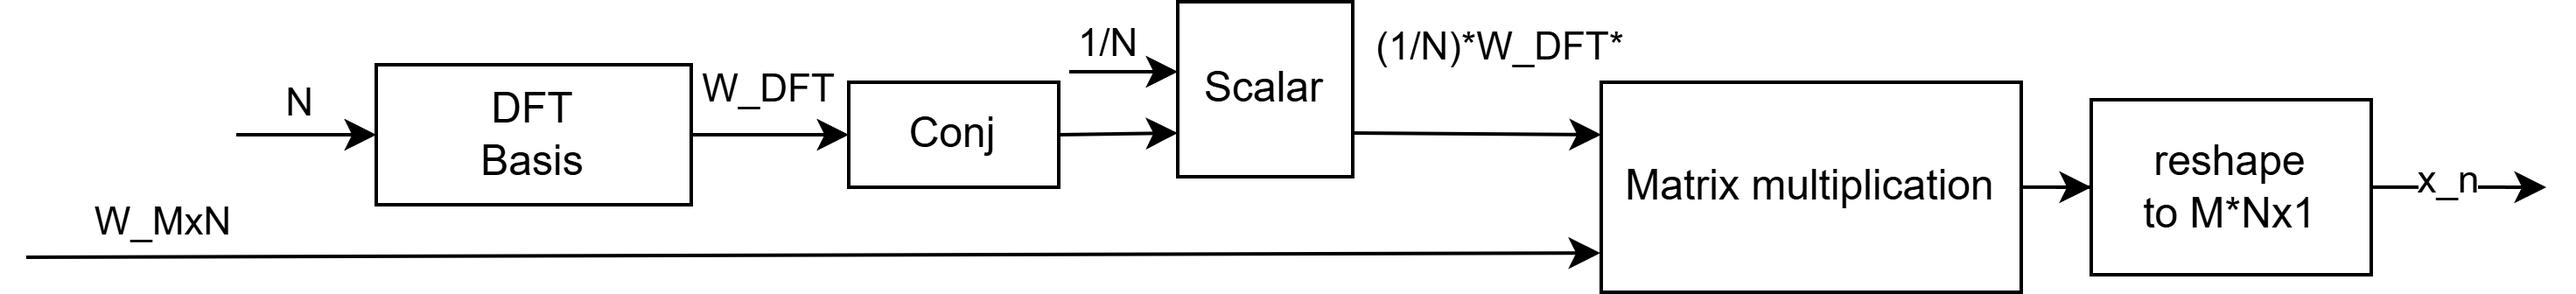
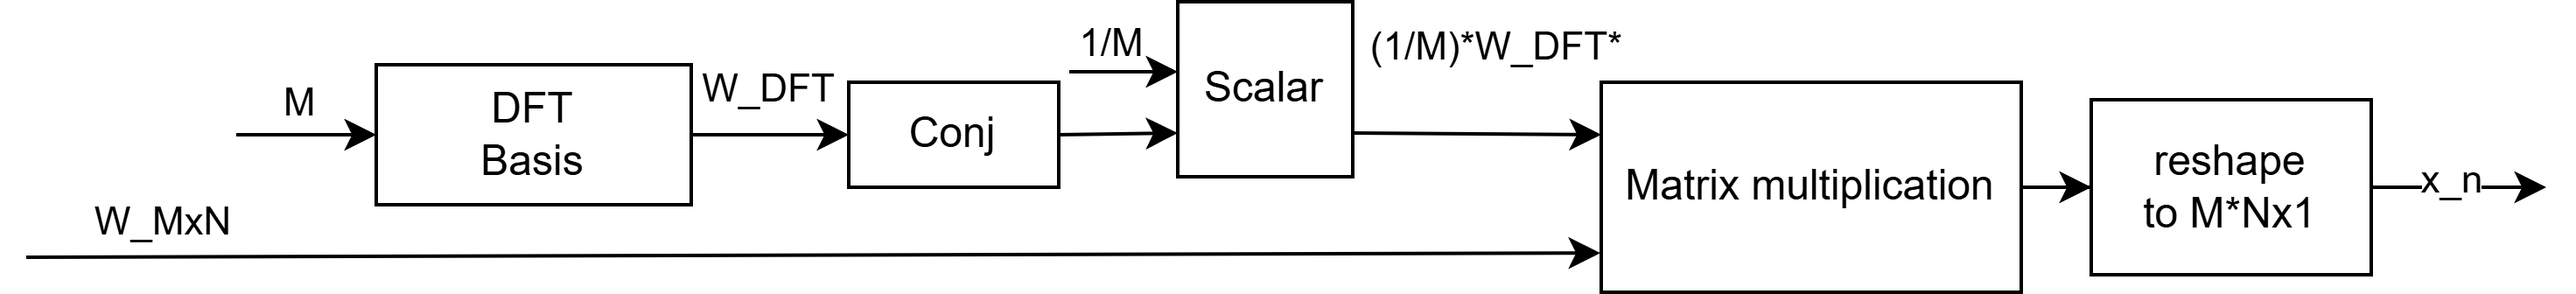
Fixing dimensions

diff --git a/main_hw2.m b/main_hw2.m
@@ -86,3 +86,34 @@ plot(discrete_time_domain, y_n_f1_f5_rand);
 title('5 random frequencies in time domain');
 ylabel('Amplitude');
 xlabel('Time domain[sec]');
+%% Signal games
+% Signal Example 1
+% Filter the signal using threshold block in frequency domain
+% 
+% Let's take a look at signals with known frequency. We have choose the
+% frequencies s.t. they fall directly on discrete frequency bins, so there
+% is no energy spread in frequency domain and we can find the expected
+% energy at each frequency bin.
+% 
+% We will consider 
+% Drawbacks - must approximate the frequency exactly.
+M = 2048;
+freq_domain = Fs * (-M/2:M/2-1)/M;
+figure;
+imshow(imread('blocks2\HW2-Example1.png'));
+title('Example 1 block diagram');
+
+x_n1 = y_n_f1_f5(:, 1) + 1 * y_n_f1_f5(:, 3) + 0 * y_n_f1_f5(:, 5) + noise_n';
+W = STFT(x_n1, M);
+Wf = Threshold(abs(W), M/3);
+figure;
+plot(freq_domain, abs(fftshift(W(1, :))));
+
+xnr= ISTFT(Wf);
+figure; 
+plot(real(xnr));
+
+% imagesc(abs(fftshift(W, 2)));
+% Signal Example 2
+
+% Signal Example 3

diff --git a/ISTFT.m b/ISTFT.m
@@ -1,16 +1,17 @@
 function [y] = ISTFT(W)
 arguments
+    % N_frames x M_frequencies 
     W (:,:)
 end
 % Get dimensions
-[M, N] = size(W);
+[~, M] = size(W);
 
 % Define discrete frequency domain
-f = (0:N-1)/N;
-% Get fft basis
-fft_basis = Complex(f, N);
-% Get inverse fft basis
-inverse_fft_basis = (1/N) * Conj(fft_basis).';
+f = (0:M-1);
+% Get fft basis, M_samples x M_frequencies
+fft_basis = Complex(f, M);
+% Get inverse fft basis, M_frequencies x M_samples
+inverse_fft_basis = (1/M) * Conj(fft_basis).';
 
 % Compute ISTFT
 istft = W * inverse_fft_basis;

diff --git a/STFT.m b/STFT.m
@@ -4,17 +4,15 @@ arguments
     M {mustBeInteger}
 end
 
-% M_frames x N_samples
-x_windowed = reshape(x, [], M).';
-
-N = size(x_windowed, 2);
+% M x N_frames
+x_windowed = reshape(x, M, []);
 
 % Define discrete frequency domain
-f = (0:N-1)/N;
+f = (0:M-1);
 
-% Get fft basis
-fft_basis = Complex(f, N);
+% Get fft basis, M_samples x M_frequencies
+fft_basis = Complex(f, M);
 
 % Compute DFT for each window
-W = x_windowed * fft_basis;
+W = x_windowed.' * fft_basis;
 end
